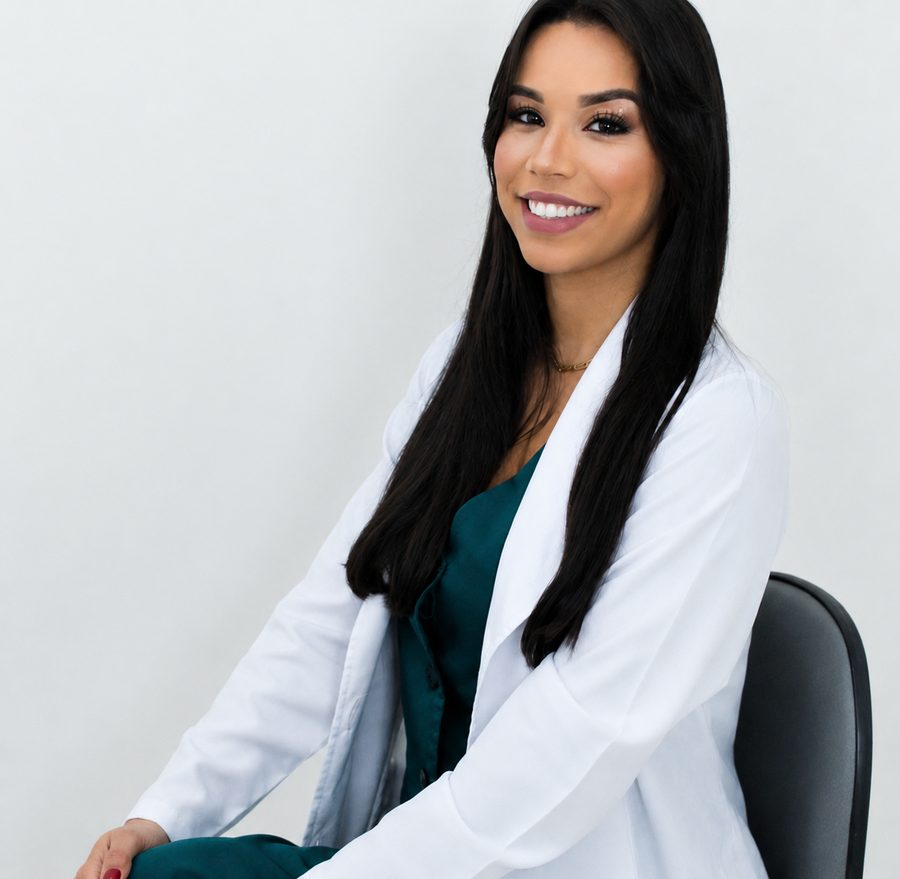
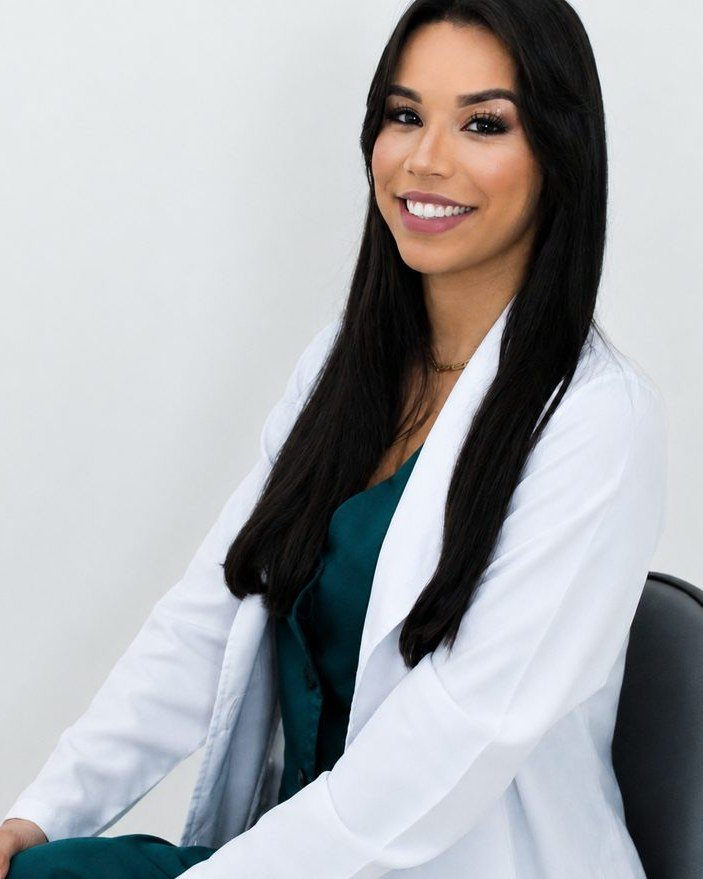
Corrige enquadramento das fotos e selos que cobriam o rosto
- Recorta Hero e Sobre para retratos 4:5 centrados no rosto da Carolina
  (Sobre deslocado para a direita, removendo o excesso de fundo)
- Reposiciona os selos flutuantes para fora do quadro no desktop
- Oculta os selos quando o layout vira coluna única (tablet/mobile),
  evitando que cubram o rosto

Claude-Session: https://claude.ai/code/session_01AnBgnmXxSHMBCjyAUiHJod

diff --git a/styles.css b/styles.css
@@ -272,8 +272,8 @@ h3 { font-size: 1.35rem; }
 }
 .floating-badge strong { font-family: var(--serif); font-size: 1.1rem; color: var(--sage-deep); }
 .floating-badge span { font-size: .76rem; color: var(--ink-soft); }
-.floating-badge { left: -22px; bottom: 60px; animation: float 5s ease-in-out infinite; }
-.floating-badge.badge-2 { left: auto; right: -18px; bottom: auto; top: 50px; animation-delay: 1.4s; }
+.floating-badge { left: -26px; bottom: 70px; animation: float 5s ease-in-out infinite; }
+.floating-badge.badge-2 { left: auto; right: -26px; bottom: 150px; top: auto; animation-delay: 1.4s; }
 .floating-badge.badge-2 strong { color: var(--gold-deep); }
 
 @keyframes float {
@@ -589,7 +589,8 @@ h3 { font-size: 1.35rem; }
 /* ===== Responsivo ===== */
 @media (max-width: 980px) {
   .hero-grid { grid-template-columns: 1fr; gap: 48px; }
-  .hero-photo { max-width: 440px; margin: 0 auto; width: 100%; }
+  .hero-photo { max-width: 420px; margin: 0 auto; width: 100%; }
+  .floating-badge { display: none; } /* evitam cobrir o rosto em telas estreitas */
   .cred-grid { grid-template-columns: repeat(2, 1fr); }
   .benefits-grid, .proc-grid, .test-grid { grid-template-columns: repeat(2, 1fr); }
   .about-grid { grid-template-columns: 1fr; gap: 48px; }
@@ -628,8 +629,6 @@ h3 { font-size: 1.35rem; }
   .container { padding: 0 18px; }
   .cred-grid, .benefits-grid, .proc-grid, .test-grid { grid-template-columns: 1fr; }
   .hero-cta .btn, .about-cta .btn { width: 100%; }
-  .floating-badge { left: 0; bottom: 12px; }
-  .floating-badge.badge-2 { right: 0; top: 12px; }
   .footer-grid { grid-template-columns: 1fr; }
   .btn-lg { width: 100%; }
   h1 { font-size: clamp(2rem, 9vw, 2.6rem); }
